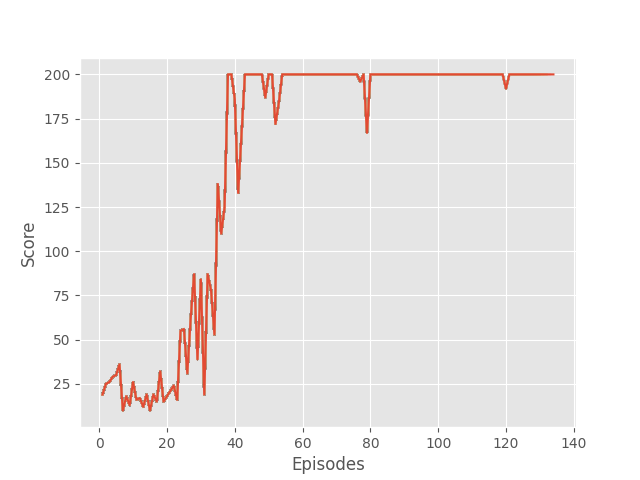
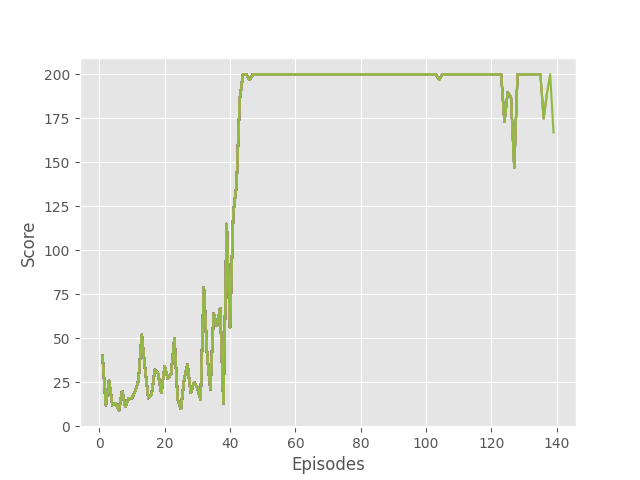
added: pytorch double dqn

diff --git a/DQN/pytorch/agents.py b/DQN/pytorch/agents.py
@@ -12,7 +12,6 @@ from replay_memory import ReplayMemory
 from q_networks import DQNEstimator
 
 
-
 class DQNAgent():
     def __init__(self, state_size, action_size):
         self.state_size = state_size
@@ -82,7 +81,8 @@ class DQNAgent():
         is_dones = torch.FloatTensor(is_dones.astype(int))
         
         # forward propagation Q_network for current states
-        states = torch.Tensor(states).float()
+        states = torch.Tensor(states)
+        states = Variable(states).float()
         preds = self.q_estimator(states)
         
         # onehot encoding actions
@@ -108,3 +108,97 @@ class DQNAgent():
         loss.backward()
         self.optimizer.step()
         return loss.item()
+    
+
+class DoubleDQNAgent():
+    def __init__(self, state_size, action_size):
+        # for rendering
+        self.render = False
+        
+        self.state_size = state_size
+        self.action_size = action_size
+        
+        # hyperparams for estimator
+        self.gamma = 0.95
+        self.lr = 0.001
+        self.replay_memory_size = 50000
+        self.epsilon = 1.0
+        self.epsilon_min = 0.000001
+        self.explore_steps = 3000
+        self.epsilon_decay = (self.epsilon - self.epsilon_min) / self.explore_steps
+        self.batch_size = 32
+        self.replay_memory_init_size = 1000
+        
+        # Estimators
+        self.q_estimator = DQNEstimator(state_size, action_size)
+        self.target_estimator = DQNEstimator(state_size, action_size)
+        self.optimizer = optim.SGD(self.q_estimator.parameters(), lr=self.lr)
+        
+        # memory 
+        self.memory = ReplayMemory(self.replay_memory_size)
+        
+    def update_target_estimator(self):
+        self.target_estimator.load_state_dict(self.q_estimator.state_dict())
+    
+    def get_action(self, state):
+        if np.random.rand() <= self.epsilon:
+            return random.randrange(self.action_size)
+        else:
+            state = Variable(torch.from_numpy(state)).float()
+            q_values = self.q_estimator(state)
+            _, best_action = torch.max(q_values, dim=1)
+            return int(best_action)
+    
+    def train(self):
+        # epsilon decay
+        if self.epsilon > self.epsilon_min:
+            self.epsilon -= self.epsilon_decay
+        # fetch samples from memory
+        batch = self.memory.sample(self.batch_size)
+        batch = np.array(batch).transpose()
+        
+        # stack all the states
+        states = np.vstack(batch[0])
+        actions = torch.LongTensor(list(batch[1]))
+        rewards = torch.FloatTensor(list(batch[2]))
+        
+        # stack all the next states
+        next_states = np.vstack(batch[3])
+        dones = batch[4]
+        dones = dones.astype(int)
+        
+        # actions one hot encoding
+        actions_one_hot = F.one_hot(actions, num_classes=self.action_size)
+        actions_one_hot = torch.FloatTensor(actions_one_hot.float())
+        actions_one_hot = Variable(actions_one_hot)
+        
+        # Forward prop
+        states = torch.FloatTensor(states)
+        states = Variable(states)
+        preds = self.q_estimator(states)
+        
+        # get current action value
+        preds = torch.sum(torch.mul(preds, actions_one_hot), dim=1)
+        
+        # Double DQN
+        next_states = torch.FloatTensor(next_states)
+        next_states = Variable(next_states)
+        next_action_values = self.q_estimator(next_states)
+        best_actions = torch.argmax(next_action_values, dim=1)
+        q_values_next_target = self.target_estimator(next_states)
+
+        dones = torch.FloatTensor(dones)
+        target = rewards + (1 - dones) * self.gamma * q_values_next_target[np.arange(self.batch_size), 
+                                                                           best_actions]
+        target = Variable(target)
+        
+        loss = F.mse_loss(preds, target).mean()
+        
+        # zero out accumulated grads
+        self.optimizer.zero_grad()
+        
+        # back prop
+        loss.backward()
+        self.optimizer.step()
+        return loss.item()
+        

diff --git a/DQN/pytorch/double_dqn.py b/DQN/pytorch/double_dqn.py
@@ -8,38 +8,38 @@ import matplotlib
 import matplotlib.pyplot as plt
 from itertools import count
 from PIL import Image
-from agents import DQNAgent
-matplotlib.use('Agg')
-matplotlib.style.use('ggplot')
+from agents import DoubleDQNAgent
 
 
 env = gym.make('CartPole-v0')
-
 if __name__=="__main__":
     state_size = env.observation_space.shape[0]
     action_size = env.action_space.n
-    agent = DQNAgent(state_size, action_size)
+    agent = DoubleDQNAgent(state_size, action_size)
     scores, episodes = list(), list()
     num_episodes = 500
     total_steps = 0
+    flag = False
     state = env.reset()
     state = np.reshape(state, [1, state_size])
-    flag = False
-    # populate replay memory
     score = 0
+
+    # Populate replay memory
+    print("Populating replay memory")
     for i in range(agent.replay_memory_init_size):
         action = agent.get_action(state)
-        next_state, reward, done, _ = env.step(action)
+        next_state, reward, is_done, _ = env.step(action)
         next_state = np.reshape(next_state, [1, state_size])
-        reward = reward if not done or score == 200 else -10
+        reward = reward if not is_done or score == 200 else -10
+        agent.memory.push(state, action, reward, next_state, is_done)
         score += reward
-        agent.memory.push(state, action, reward, next_state, done)
-        if done:
+        if is_done:
             state = env.reset()
             state = np.reshape(state, [1, state_size])
             score = 0
         else:
             state = next_state
+
     for i_episode in range(1, num_episodes + 1):
         score = 0
         # update target network
@@ -54,7 +54,7 @@ if __name__=="__main__":
             next_state = np.reshape(next_state, [1, state_size])
             reward = reward if not done or score == 199 else -10
             agent.memory.push(state, action, reward, next_state, done)
-            loss = agent.train_network()
+            loss = agent.train()
             score += reward
             state = next_state
             if done:
@@ -64,9 +64,9 @@ if __name__=="__main__":
                 plt.plot(episodes, scores, label="Scores vs Episode")
                 plt.xlabel("Episodes")
                 plt.ylabel("Score")
-                plt.savefig("plots/cartpole_dqn.png")
+                plt.savefig("plots/cartpole_double_dqn.png")
                 if np.mean(scores[-min(100, len(scores)):]) >=195:
-                    torch.save(agent.q_estimator.state_dict(), "saved_model/cartpole_dqn")
+                    torch.save(agent.q_estimator.state_dict(), "saved_model/cartpole_double_dqn")
                     print("Saved Model")
                     print("Average Score of last 100 episodes {}".format(np.mean(scores[-min(100, len(scores)):])))
                     flag = True
@@ -75,6 +75,3 @@ if __name__=="__main__":
             total_steps += 1
         print("\rTotal Steps: {}  Episode {}/{} Loss: {:.4f}  epsilon: {}".format(total_steps, i_episode, num_episodes, loss, agent.epsilon), end="")
         sys.stdout.flush()
-    if not flag:
-        torch.save(agent.q_estimator.state_dict(), "saved_model/cartpole_dqn")
-        print("Saved model")
